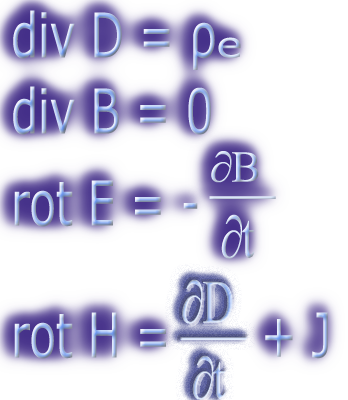
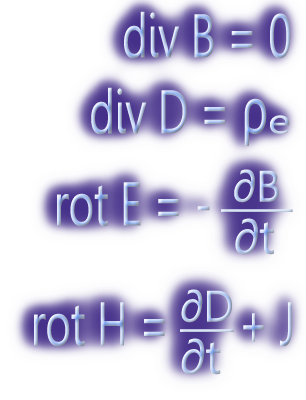
Set the style of Maxwell's equations

diff --git a/about.html b/about.html
@@ -40,8 +40,8 @@
 				<h3  class="text-hide">Электрофизическая лаборатория</h3>
 				<img src="images/title001.png" alt='Электрофизическая лаборатория "ЭЛЕКТРОРЕМОНТ"' class="titImg img-responsive">
 			</div>
-			<div class="col-sm-4 col-lg-4 col-lg-offset-2 maxForm">
-				<img src="images/Maxvell.png" alt='Уравнения Максвела' class="titImg img-responsive">
+			<div class="col-xs-12 hidden-xs col-sm-4 col-lg-4 col-lg-offset-2 maxForm">
+				<img src="images/Maxvell.png" alt='Уравнения Максвела' class="titImg img-responsive pull-right">
 			</div>
 			<div class="col-xs-12">
 				<div class="row">

diff --git a/style.css b/style.css
@@ -30,7 +30,7 @@ a:visited {color:#F4F7FA;}							/*color extra-light-gray*/
 	width:80%;
 }
 .maxForm img{
-	max-width:100%;
+	max-width:70%;
 }
 .topHeader p{
 	font-size:55% !important;
